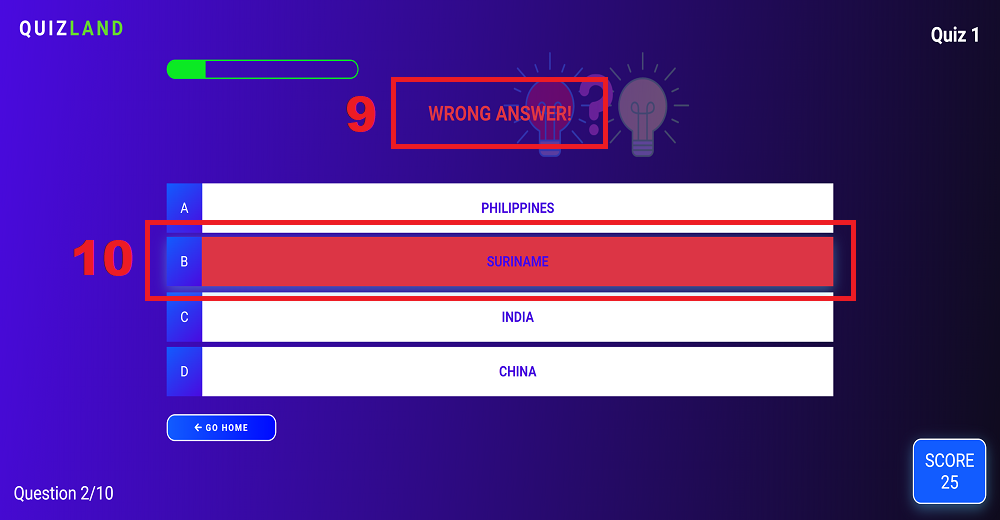
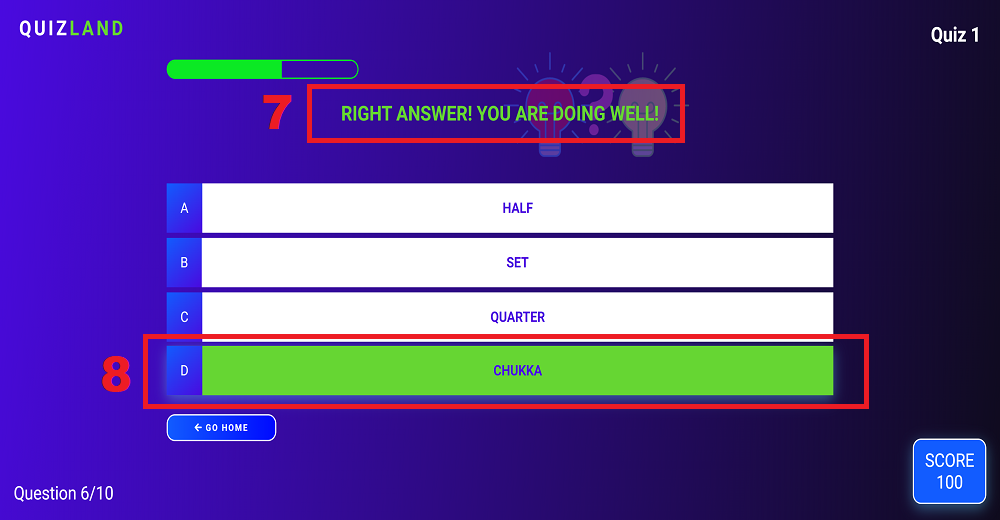
Add content

diff --git a/README.md b/README.md
@@ -195,11 +195,11 @@ On the top right the users can check any time what quiz they are on [6].
 
 #### Right Answer
 ![Right Answer](./assets/images/readme/quiz-land-right-answer.png)
-* 
+* When the user answers the question right will see a message the "Right Answer" on the top center [7] and the background color on the choice will turn green [8].
 
 #### Wrong Answer
-![Wrong Answer](./assets/images/readme/quiz-land-wrong-page.png)
-* 
+![Wrong Answer](./assets/images/readme/quiz-land-wrong-answer.png)
+* When the user answers the question wrong will see a message the "Wrong Answer" on the top center [9] and the background color on the choice will turn red [10].
 
 ## Technologies Used
 
